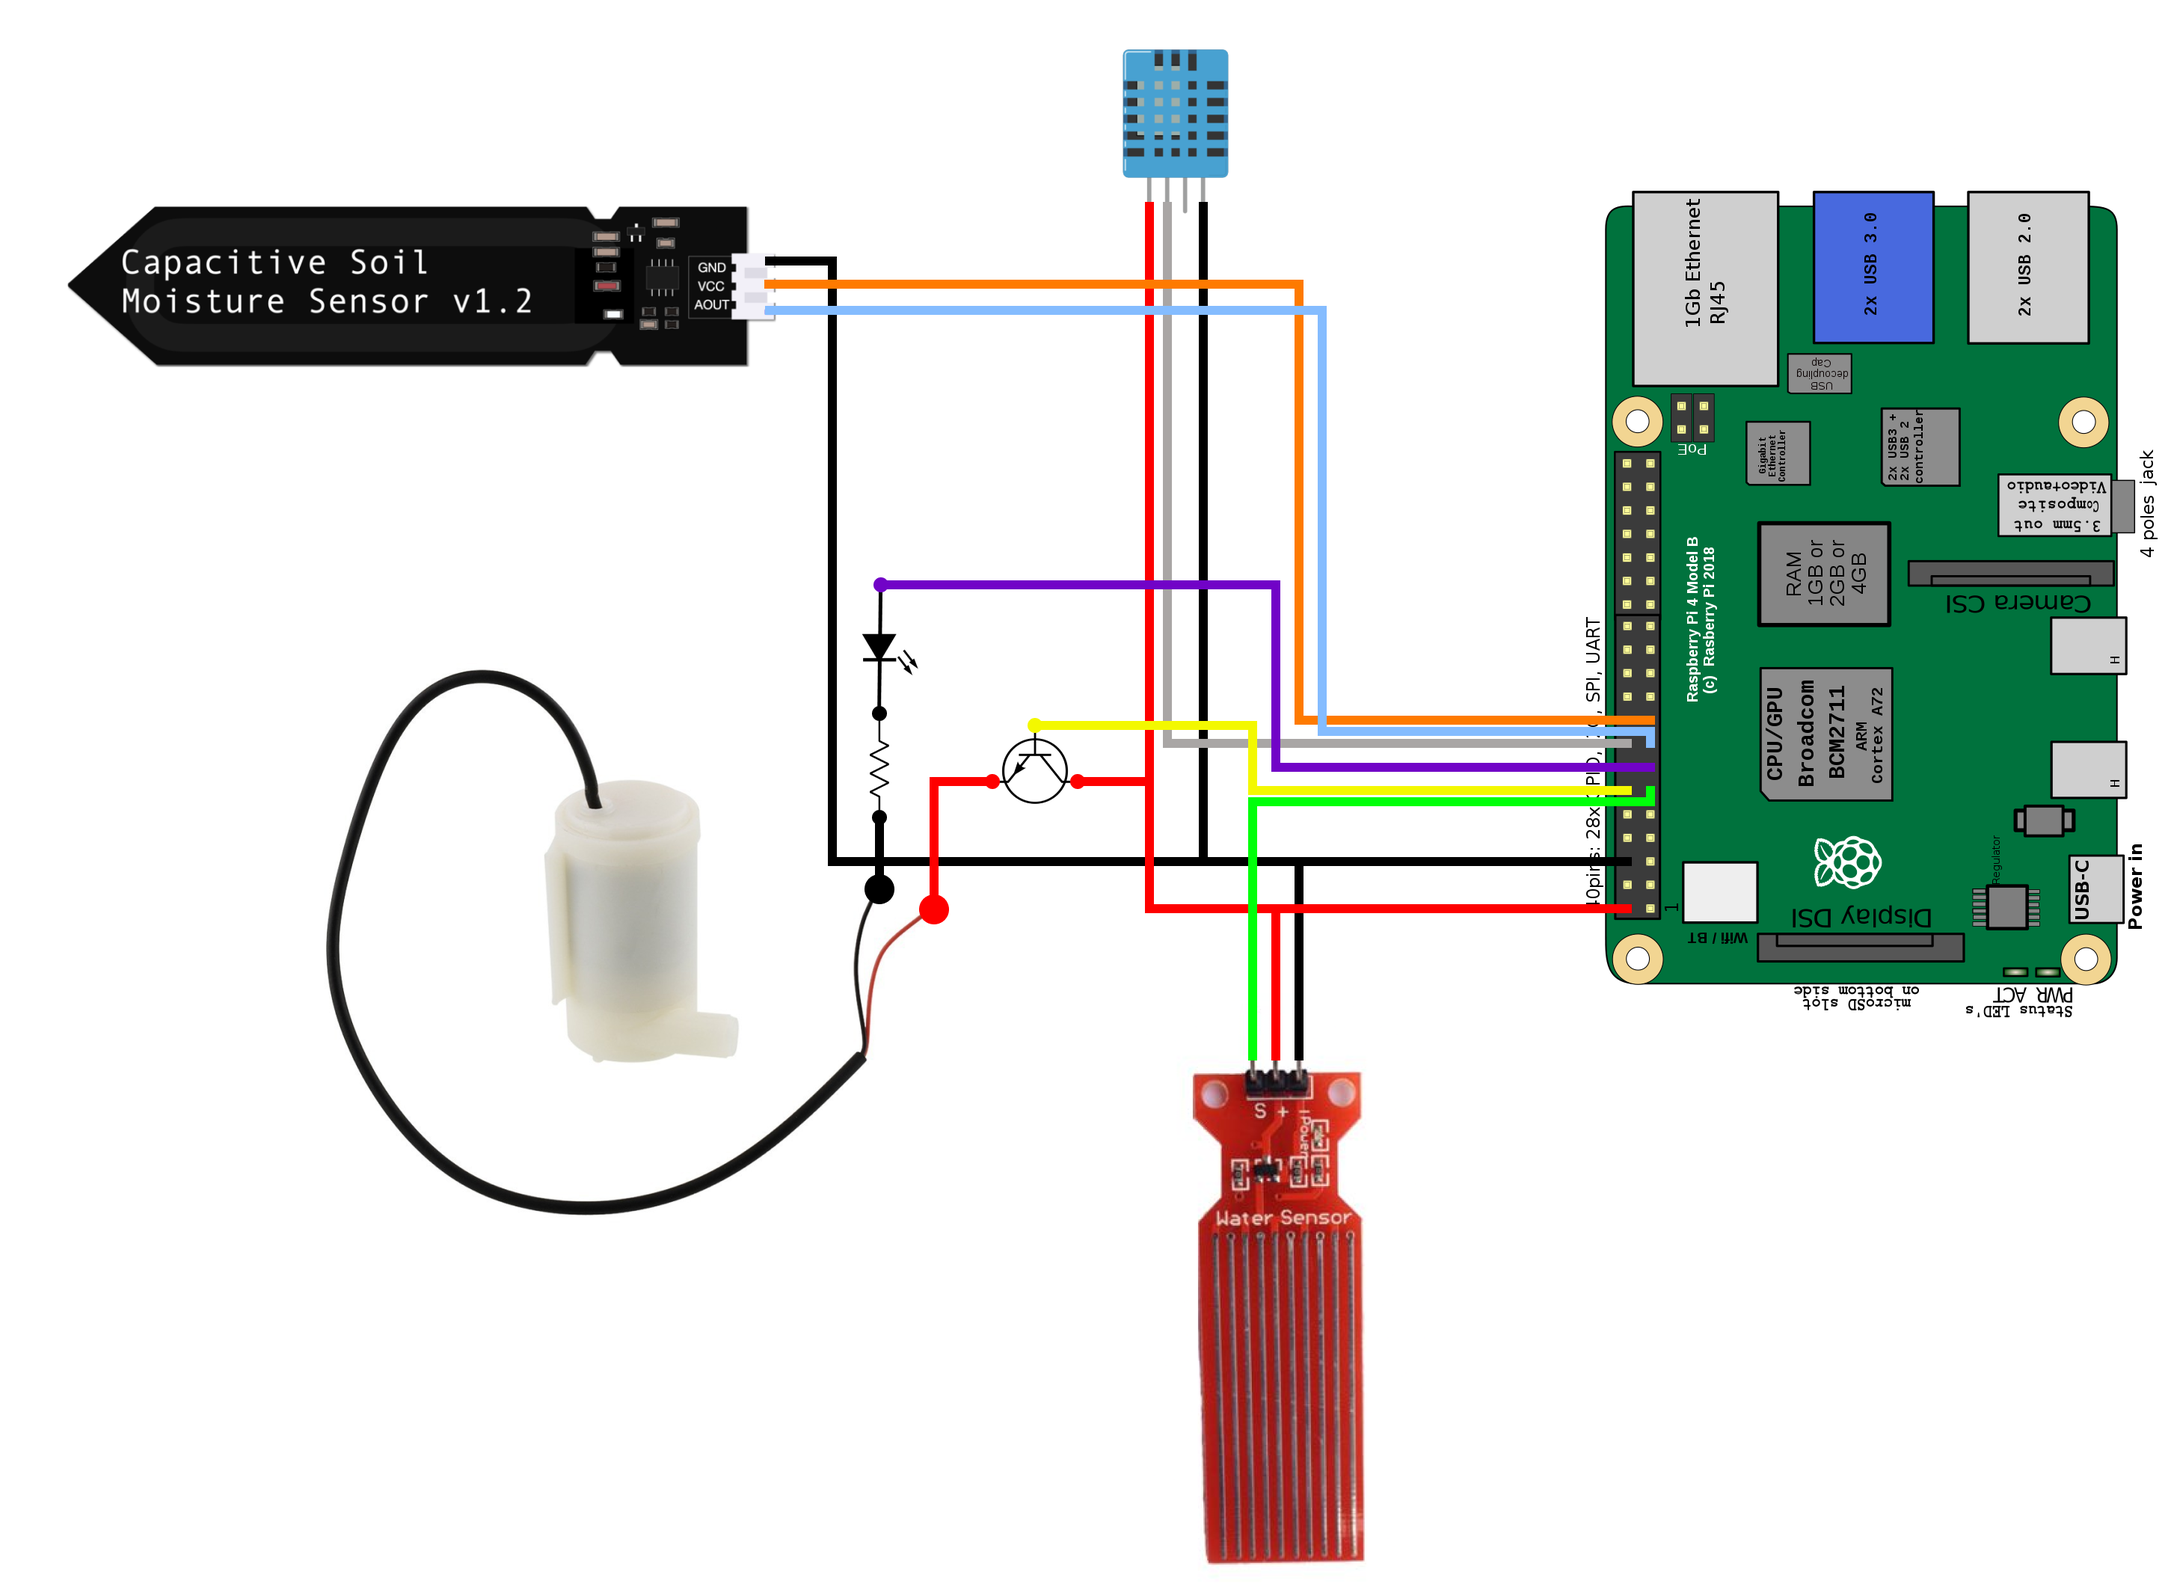
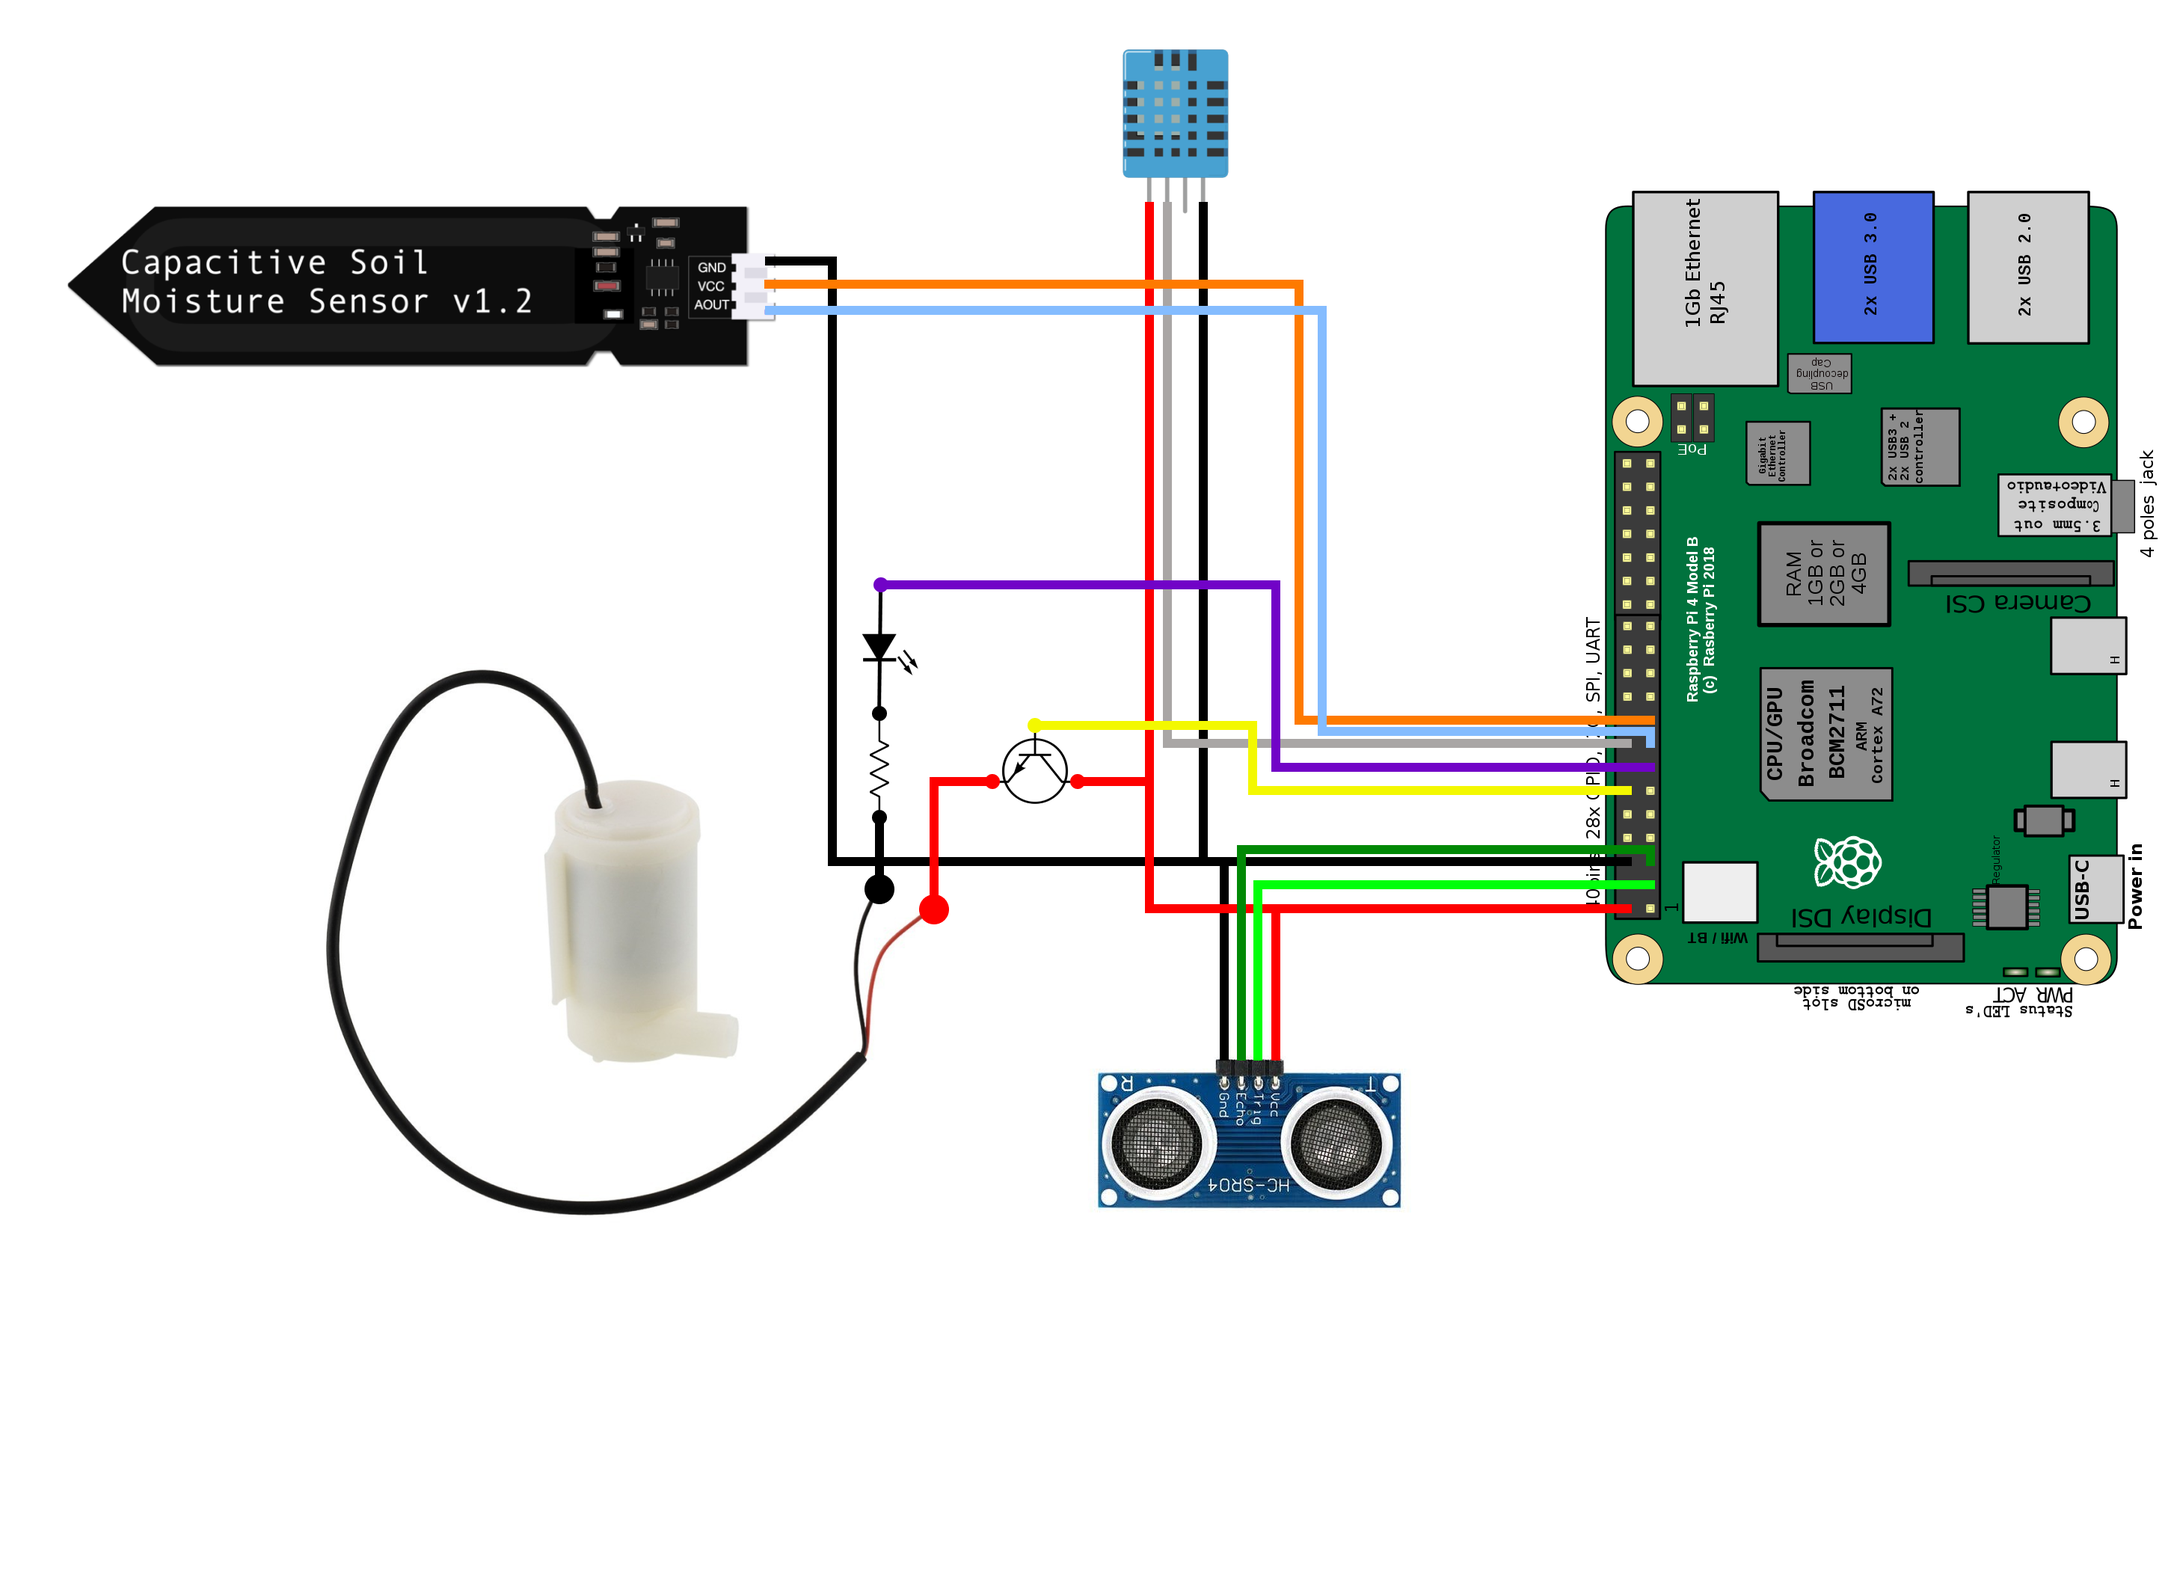
🐍 python-circuit-program-v1

Changed region(s): [[0.496, 0.4986, 0.7751, 0.9972]]

diff --git a/python/program.py b/python/program.py
@@ -1,0 +1,146 @@
+#https://www.hackster.io/shafin-kothia/water-level-monitor-with-raspberry-pi-d509a2
+import RPi.GPIO as GPIO
+import spidev
+import Adafruit_DHT
+import time
+import array
+
+GPIO.setmode(GPIO.BCM)
+
+# Pins
+TRIG = 2
+ECHO = 3
+MOIST = 22
+DHT = 23
+PUMP = 18
+LED = 27
+
+# Web
+# pump flow => 0.6 l/min
+manualWaterOverdrawn, manualWaterLevel, manualTemp, manualHum
+initializationState=False # btn on web after init is completed
+
+# Code
+initialization=False
+# add reserve => not from bottom but from low water level
+waterLevel=0 # on init measures 5 times, appends the values into an array and then averages the values into single value
+moistureLevel=0
+WaterOverdrawnLevel=0
+
+# Functions
+def waterLevelMeasure():
+    GPIO.output(TRIG, True)
+    time.sleep(0.00001)
+    GPIO.output(TRIG, False)
+
+    while GPIO.input(ECHO)==0:
+      pulse_start = time.time()
+
+    while GPIO.input(ECHO)==1:
+      pulse_stop = time.time()
+
+    pulse_time = pulse_stop - pulse_start
+    distance = pulse_time * 17150
+    return distance
+
+def DHTMeasure():
+    try:
+        humidity, temperature = Adafruit_DHT.read(Adafruit_DHT.DHT11, DHT)
+        if humidity is not None and temperature is not None:
+          print("Temp={0:0.1f}C Humidity={1:0.1f}%".format(temperature, humidity))
+          result = [temperature, humidity]
+          return result
+        else:
+          return None
+    except RuntimeError as error:     # Errors happen fairly often, DHT's are hard to read, just keep going
+        return error.args[0]
+
+def moistureMeasure():
+    max = 460.0 # Maximum value at full humidity
+    spi = spidev. SpiDev ()
+    spi. open (0, 1)
+    answer = spi. xfer ([1, 128, 0])
+    if 0 <= answer [1] <= 3:
+    value = 1023 - ((answer [1] * 256) + answer [2])
+    percentage value = ((value / max) * 100)
+    return percentage
+
+def arithmeticMean(list):
+    return sum(list) / len(list)
+
+# IO
+GPIO.setup(TRIG ,GPIO.OUT)
+GPIO.setup(ECHO,GPIO.IN)
+GPIO.setup(MOIST ,GPIO.IN)
+GPIO.setup(DHT ,GPIO.IN)
+GPIO.setup(PUMP ,GPIO.OUT)
+GPIO.setup(LED ,GPIO.OUT)
+
+GPIO.output(TRIG, False)
+
+# Initialization sequence
+print("Starting initialization sequence...")
+time.sleep(2)
+
+# init measurement
+waterLevelAvg= []
+moistureAvg= []
+
+while count < 5:
+  waterLevelAvg.append(waterLevelMeasure())
+  moistureAvg.append(moistureMeasure())
+  count += 1
+  time.sleep(1)
+
+moistureLevel = arithmeticMean(moistureAvg)
+
+
+
+# wait for initializationState from web then get values
+
+
+
+
+if initializationState = True:
+  if bool(manualWaterLevel):
+    waterLevel = manualWaterLevel
+  else:
+    waterLevel = arithmeticMean(waterLevelAvg) - 2
+
+  if bool(manualWaterOverdrawn):
+    WaterOverdrawnLevel = manualWaterOverdrawn
+
+  print(f"Water level is set to: {round(waterLevel, 2)}")
+  print(f"Measured moisture level: {round(moistureLevel, 2)}")
+  time.sleep(3)
+  initialization = True
+  print("GardenBot is coming to life...🥬🤖...")
+
+# Measurement sequence
+while initialization:
+  if waterLevelMeasure() < moistureLevel:
+    print("Soil is drying out, starting irrigation...")
+    # time passed from running pump will be represented as liters
+    tic = time.perf_counter()
+    while waterLevelMeasure() < moistureLevel or flowMeasure < WaterOverdrawnLevel:
+      toc = time.perf_counter()
+      GPIO.output(PUMP, True);
+    
+
+    # after pump stops run checking sequence
+
+
+    # Checking sequence
+    if waterLevelMeasure() < waterLevel:
+      print("!Water tank limit level reached!")
+      while waterLevelMeasure() < waterLevel:
+        GPIO.output(LED, True);
+        time.sleep(0.5)
+        GPIO.output(LED, False);
+        time.sleep(0.5)
+    else:
+      GPIO.output(LED, False);
+
+  else:
+    GPIO.output(PUMP, False);
+

diff --git a/python/DHT11.py b/python/DHT11.py
@@ -1,0 +1,46 @@
+# https://peppe8o.com/using-raspberry-pi-with-dht11-temperature-and-humidity-sensor-and-python/
+import time
+import board
+import adafruit_dht
+#Initial the dht device, with data pin connected to:
+dhtDevice = adafruit_dht.DHT11(board.D17)
+while True:
+    try:
+         # Print the values to the serial port
+         temperature_c = dhtDevice.temperature
+         temperature_f = temperature_c * (9 / 5) + 32
+         humidity = dhtDevice.humidity
+               .format(temperature_f, temperature_c, humidity))
+    except RuntimeError as error:     # Errors happen fairly often, DHT's are hard to read, just keep going
+         print(error.args[0])
+    time.sleep(2.0)
+
+# https://www.thegeekpub.com/236867/using-the-dht11-temperature-sensor-with-the-raspberry-pi/
+import Adafruit_DHT
+import time
+ 
+DHT_SENSOR = Adafruit_DHT.DHT11
+DHT_PIN = 4
+ 
+while True:
+    humidity, temperature = Adafruit_DHT.read(DHT_SENSOR, DHT_PIN)
+    if humidity is not None and temperature is not None:
+        print("Temp={0:0.1f}C Humidity={1:0.1f}%".format(temperature, humidity))
+    else:
+        print("Sensor failure. Check wiring.");
+    time.sleep(3);
+
+# used code
+import Adafruit_DHT
+import time
+
+DHT = 23
+ 
+while True:
+     try:
+          humidity, temperature = Adafruit_DHT.read(Adafruit_DHT.DHT11, DHT)
+          if humidity is not None and temperature is not None:
+          print("Temp={0:0.1f}C Humidity={1:0.1f}%".format(temperature, humidity))
+    except RuntimeError as error:     # Errors happen fairly often, DHT's are hard to read, just keep going
+         print(error.args[0])
+    time.sleep(3);

diff --git a/python/ultrasonic-sensor.py b/python/ultrasonic-sensor.py
@@ -1,0 +1,50 @@
+#https://www.hackster.io/shafin-kothia/water-level-monitor-with-raspberry-pi-d509a2
+import RPi.GPIO as GPIO
+import time
+
+
+GPIO.setmode(GPIO.BCM)
+
+TRIG = 2
+ECHO = 3
+LED = 27
+i=0
+
+GPIO.setup(TRIG ,GPIO.OUT)
+GPIO.setup(ECHO,GPIO.IN)
+GPIO.setup(LED ,GPIO.OUT)
+
+GPIO.output(TRIG, False)
+print("Starting.....")
+time.sleep(2)
+
+while True:
+   GPIO.output(TRIG, True)
+   time.sleep(0.00001)
+   GPIO.output(TRIG, False)
+
+   while GPIO.input(ECHO)==0:
+      pulse_start = time.time()
+
+   while GPIO.input(ECHO)==1:
+      pulse_stop = time.time()
+
+   pulse_time = pulse_stop - pulse_start
+
+   distance = pulse_time * 17150
+   print(round(distance, 2));
+
+   time.sleep(1)
+   
+   if distance < 4:
+       print("Water will overflow")
+       GPIO.output(LED, True);
+       time.sleep(0.5)
+       GPIO.output(LED, False);
+       time.sleep(0.5)
+       GPIO.output(LED, True);
+       time.sleep(0.5)
+       GPIO.output(LED, False);
+       time.sleep(0.5)
+   else:
+       GPIO.output(LED, False);

diff --git a/python/capacitive-soil-moisture-senzor.py b/python/capacitive-soil-moisture-senzor.py
@@ -1,0 +1,13 @@
+# https://www.electroniclinic.com/soil-moisture-sensor-with-raspberry-pi-circuit-diagram-and-python-code/
+#! / usr / bin / python3
+# soil moisture .py
+import spidev
+import time
+max = 460.0 # Maximum value at full humidity
+spi = spidev. SpiDev ()
+spi. open (0, 1)
+answer = spi. xfer ([1, 128, 0])
+if 0 <= answer [1] <= 3:
+value = 1023 - ((answer [1] * 256) + answer [2])
+percentage value = ((value / max) * 100)
+print ("Soil moisture:", percentage, "%")

diff --git a/final-report.md b/final-report.md
@@ -55,8 +55,9 @@
 
   #### Kapacitní čidlo pro měření vlhkosti půdy
   - kapacitní čidlo se skládá ze dvou vodivých desek a převodníku. Čidlo funguje na způsob kapacitoru avšak jeho kapacita je ovlivněna vlhkostí, která ovlivňuje dielektrikum mezi dvouma deskama.
-  #### Senzor hladiny vody
-  - Senzor hladiny vody se skládá z několika otevřených konců obvodu a převodníku. Otevřené konce obvodu jsou ponořeny do vody, a voda, jakožto průměrný elektrický vodič, takhle uzavře obvod. Čím hlouběji otevřené konce ponoříme tím menší bude rezistivita.
+
+  #### Ultrasonický senzor
+  - Ultrasonický senzor vydává zvukové vlny na vysoké frekvenci, neslyšitelné pro lidské ucho. Poté čeká, až se zvuk odrazí zpět, a vypočítá vzdálenost na základě času měřeného od vysílání zvukové vlny k zpětnému příjmutí.
 
   - Všechny naměřené údaje jsou v převodníku daného senzoru přepočítány na jednotky dané veličiny a odeslány analogovým signálem do řídící jednotky.
 
@@ -67,26 +68,26 @@
 #### Zapojení
 ![alt text](./circuit.png)
   #### Senzor teploty a vlhkosti vzduchu DHT11
-  - je zapojen do zdroje 5V a země a jeho signální pin je připojen k GPIO pinu 16.
+  - je zapojen do zdroje 5V a země a jeho signální pin je připojen k pinu GPIO23.
 
   #### Kapacitní čidlo pro měření vlhkosti půdy
-  - je zapojeno do zdroje 5V a země a jeho signální pin je připojen k GPIO pinu 15.
+  - je zapojeno do zdroje 3.3V a země a jeho signální pin je připojen k pinu GPIO22.
 
-  #### Senzor hladiny vody
-  - je zapojen do zdroje 3.3V a země a jeho signální pin je připojen k GPIO pinu 11.
+  #### Ultrasonický senzor
+  - je zapojen do zdroje 5V a země a jeho piny jsou pomocí I2C sběrnice připojen k pinům GPIO2 a GPIO3.
 
   #### Ponorné mini čerpadlo eses
-  - je zapojeno přes tranzistor do zdroje 5V a země. Jeho spuštění a vypnutí je ovládáno otevřením a zavřením tranzistoru, jehož báze je připojena na GPIO pin 12.
+  - je zapojeno přes tranzistor do zdroje 5V a země. Jeho spuštění a vypnutí je ovládáno otevřením a zavřením tranzistoru, jehož báze je připojena k pinu GPIO18.
 
   #### LED dioda
-  - je zapojena přes 1K ohmový rezistor do země a na GPIO pin 13. LED dioda slouží jako přídávná signalizace nízké hladiny vody v nádrži.
+  - je zapojena přes 1K ohmový rezistor do země a na pin GPIO27. LED dioda slouží jako přídávná signalizace nízké hladiny vody v nádrži.
 
 #### Funkcionalita
   #### 1. Fáze inicializace
   - Půda musí být ze začátku suchá. Kapacitní čidlo pro měření vlhkosti půdy zastrčíme co nejhlouběji do půdy. RaspberryPi bude chvíli sbírat data a pak je zprůměruje do hodnoty, která bude sloužit jako limit pro spuštění čerpadla.
-  - Ve webovém rozhraní jde navíc ještě manuálně nastavit hranice teploty a vlhkosti vzduchu. Senzor teploty a vlhkosti vzduchu je v provozu hned po zapojení GardenBota, takže uvede momentální teplotu pro představu limitní hodnoty k nastavení.
-  - Nastavit se dá také množství vody, které bude přečerpáno při jednom spuštění a jaká je hranice pro přijatelnou výšku hladiny vody v nádrži. Pokud nejsou tyto hodnoty uvedeny čerpadlo bude vodu přečerpávat dokud se nezmění hodnota kapacitního čidla pro měření vlhkosti půdy a senzor hladiny vody použije výchozí nastavení.
+  - Ve webovém rozhraní jde navíc ještě manuálně nastavit hranice teploty a vlhkosti vzduchu pro spuštění čerpadla.
+  - Nastavit se dá také množství vody, které bude přečerpáno při jednom spuštění a jaká je hranice pro přijatelnou výšku hladiny vody v nádrži. Pokud nejsou tyto hodnoty uvedeny čerpadlo bude vodu přečerpávat dokud se nezmění hodnota kapacitního čidla pro měření vlhkosti půdy a ultrasonický senzor použije výchozí nastavení.
   #### 2. Fáze měření
   - Kapacitní čidlo pro měření vlhkosti půdy a senzor teploty a vlhkosti vzduchu průběžně posílají naměřená data do RaspberryPi, kde se ukládají do databáze. Jestliže naměřené hodnoty překročí limitní hodnoty RaspberryPi pošle signál pro otevření tranzistoru což spustí čerpadlo, které začne čerpat vodu. Voda se čerpá tak dlouho dokud kapacitní čidlo pro měření vlhkosti půdy nezmění svou hodnotu nebo dokud není vyčerpán limit vody na jedno spuštění.
   #### 3. Fáze kontroly
-  - Po ukončení přečerpávání se spustí senzor hladiny vody a změří výšku hladiny vody. Naměřená data poté odešlě do RaspberryPi kde se uloží do databáze. Pokud bude naměřená hodnota nižší než je limitní hodnota začne blikat LED dioda a RaspberryPi odešle upozornění o doplnění nádrže do webového rozhraní. Jakmile bude hladina doplněna signalizace se vypne.
+  - Po ukončení přečerpávání se spustí ultrasonický senzor a změří výšku hladiny vody. Naměřená data poté odešlě do RaspberryPi kde se uloží do databáze. Pokud bude naměřená hodnota nižší než je limitní hodnota začne blikat LED dioda a RaspberryPi odešle upozornění o doplnění nádrže do webového rozhraní. Jakmile bude hladina doplněna signalizace se vypne.

diff --git a/README.md b/README.md
@@ -1,6 +1,18 @@
 # garden-bot
 dlouhodobka
 
-# souces
-https://bastlirna.hwkitchen.cz/zavlazovaci-system-s-gprs-ovladanim/
-https://www.youtube.com/watch?v=QdHvS0D1zAI
+# !!!změna => místo water level senzoru ultrasonický senzor a potřebujem ADC převodník (MCP3008)
+
+# Sources
+- https://bastlirna.hwkitchen.cz/zavlazovaci-system-s-gprs-ovladanim/
+- https://www.youtube.com/watch?v=QdHvS0D1zAI
+- https://www.youtube.com/watch?v=H35lb198IZQ
+- https://www.reichelt.com/magazin/en/sensor-database-on-the-raspberry-pi/
+- https://leanpub.com/RPiMRE/read
+- https://www.w3schools.com/nodejs/nodejs_raspberrypi_webserver_websocket.asp
+
+# Web server
+- nodejs
+- websocket
+- InfluxDB / PostgreSQL
+- js
